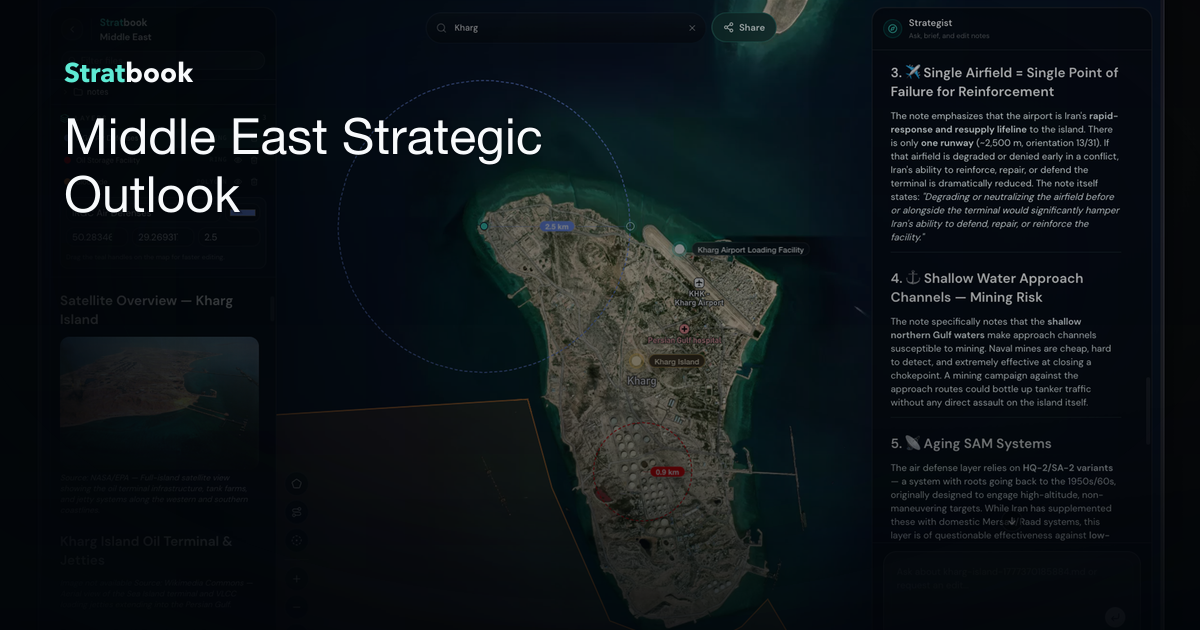
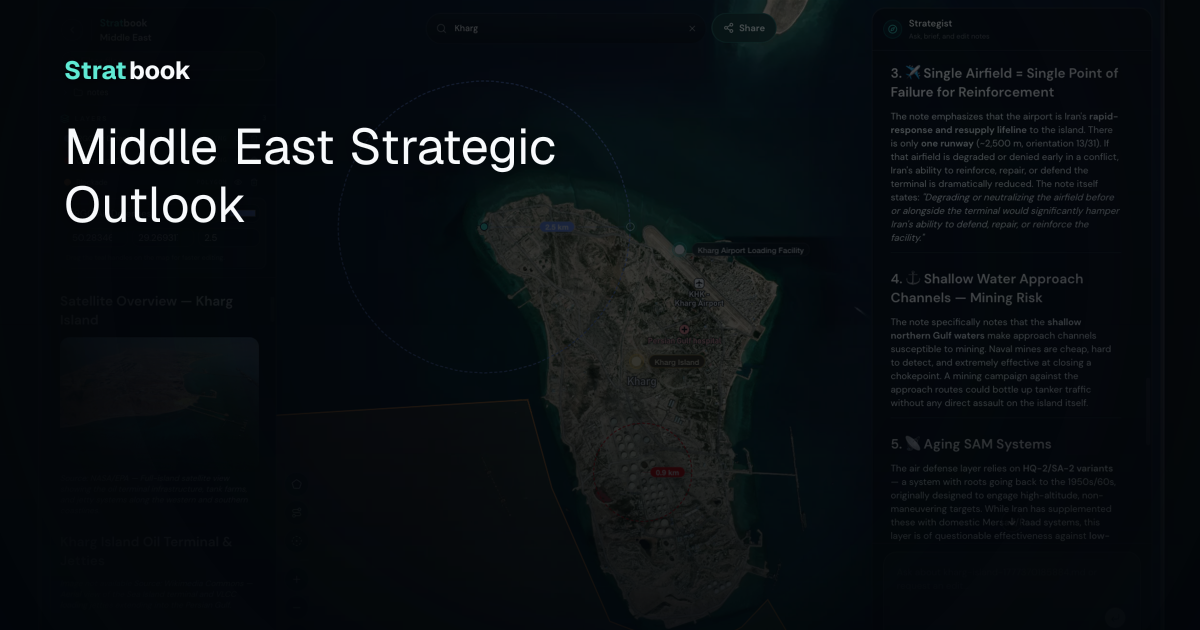
packaged fonts for rendering og image issue

diff --git a/src/lib/stratmap/cover-image.tsx b/src/lib/stratmap/cover-image.tsx
@@ -1,0 +1,194 @@
+import "server-only";
+
+import { readFile } from "node:fs/promises";
+import path from "node:path";
+import { ImageResponse } from "next/og";
+
+type CoverImageOptions = {
+  height: number;
+  image: Blob;
+  title: string;
+  width: number;
+};
+
+const geistBoldPath = path.join(process.cwd(), "src/assets/fonts/geist-bold.ttf");
+const geistRegularPath = path.join(process.cwd(), "src/assets/fonts/geist-regular.ttf");
+let geistBoldFontPromise: Promise<ArrayBuffer> | undefined;
+let geistRegularFontPromise: Promise<ArrayBuffer> | undefined;
+
+function getArrayBuffer(buffer: Buffer) {
+  const arrayBuffer = new ArrayBuffer(buffer.byteLength);
+  new Uint8Array(arrayBuffer).set(buffer);
+  return arrayBuffer;
+}
+
+function getGeistBoldFont(): Promise<ArrayBuffer> {
+  if (!geistBoldFontPromise) {
+    geistBoldFontPromise = readFile(geistBoldPath).then(getArrayBuffer);
+  }
+  return geistBoldFontPromise;
+}
+
+function getGeistRegularFont(): Promise<ArrayBuffer> {
+  if (!geistRegularFontPromise) {
+    geistRegularFontPromise = readFile(geistRegularPath).then(getArrayBuffer);
+  }
+  return geistRegularFontPromise;
+}
+
+function wrapCoverTitle(title: string) {
+  const words = title.trim().split(/\s+/).filter(Boolean);
+  const lines: string[] = [];
+  let currentLine = "";
+  for (const word of words) {
+    const nextLine = currentLine ? `${currentLine} ${word}` : word;
+    if (nextLine.length > 22 && currentLine) {
+      lines.push(currentLine);
+      currentLine = word;
+      continue;
+    }
+    currentLine = nextLine;
+  }
+  if (currentLine) lines.push(currentLine);
+  const visibleLines = lines.slice(0, 2);
+  if (lines.length > 2) {
+    visibleLines[1] = `${visibleLines[1].replace(/\s+\S*$/, "") || visibleLines[1]}...`;
+  }
+  return visibleLines.length > 0 ? visibleLines : ["Untitled stratbook"];
+}
+
+async function blobToDataUrl(blob: Blob) {
+  const base64 = Buffer.from(await blob.arrayBuffer()).toString("base64");
+  return `data:${blob.type || "image/png"};base64,${base64}`;
+}
+
+export async function renderCoverImage({ height, image, title, width }: CoverImageOptions) {
+  const [backgroundImage, geistBold, geistRegular] = await Promise.all([
+    blobToDataUrl(image),
+    getGeistBoldFont(),
+    getGeistRegularFont(),
+  ]);
+  const titleLines = wrapCoverTitle(title);
+  const response = new ImageResponse(
+    (
+      <div
+        style={{
+          backgroundColor: "#02060a",
+          display: "flex",
+          height: "100%",
+          overflow: "hidden",
+          position: "relative",
+          width: "100%",
+        }}
+      >
+        <img
+          alt=""
+          src={backgroundImage}
+          style={{
+            height: "100%",
+            left: 0,
+            objectFit: "cover",
+            position: "absolute",
+            top: 0,
+            width: "100%",
+          }}
+        />
+        <div
+          style={{
+            background:
+              "linear-gradient(90deg, rgba(2,6,10,0.9) 0%, rgba(2,6,10,0.4) 48%, rgba(2,6,10,0) 100%)",
+            height: "100%",
+            left: 0,
+            position: "absolute",
+            top: 0,
+            width: "100%",
+          }}
+        />
+        <div
+          style={{
+            background:
+              "linear-gradient(180deg, rgba(2,6,10,0) 0%, rgba(2,6,10,0.3) 62%, rgba(2,6,10,0.74) 100%)",
+            height: "100%",
+            left: 0,
+            position: "absolute",
+            top: 0,
+            width: "100%",
+          }}
+        />
+        <div
+          style={{
+            background:
+              "radial-gradient(circle at 50% 42%, rgba(2,6,10,0) 46%, rgba(2,6,10,0.56) 100%)",
+            height: "100%",
+            left: 0,
+            position: "absolute",
+            top: 0,
+            width: "100%",
+          }}
+        />
+        <div
+          style={{
+            color: "#f8fafc",
+            display: "flex",
+            flexDirection: "column",
+            left: 64,
+            position: "absolute",
+            top: 58,
+          }}
+        >
+          <div
+            style={{
+              display: "flex",
+              fontFamily: "Geist",
+              fontSize: 25,
+              fontWeight: 700,
+              lineHeight: 1,
+              textShadow: "0 1px 10px rgba(2, 6, 10, 0.64)",
+            }}
+          >
+            <span style={{ color: "#5eead4" }}>Strat</span>
+            <span>book</span>
+          </div>
+          <div
+            style={{
+              display: "flex",
+              flexDirection: "column",
+              fontFamily: "Geist",
+              fontSize: 50,
+              fontWeight: 400,
+              gap: 8,
+              lineHeight: 1,
+              marginTop: 38,
+              maxWidth: 650,
+              textShadow: "0 2px 18px rgba(2, 6, 10, 0.58)",
+            }}
+          >
+            {titleLines.map((line) => (
+              <div key={line}>{line}</div>
+            ))}
+          </div>
+        </div>
+      </div>
+    ),
+    {
+      fonts: [
+        {
+          data: geistRegular,
+          name: "Geist",
+          style: "normal",
+          weight: 400,
+        },
+        {
+          data: geistBold,
+          name: "Geist",
+          style: "normal",
+          weight: 700,
+        },
+      ],
+      height,
+      width,
+    }
+  );
+
+  return response.blob();
+}

diff --git a/src/lib/stratmap/workspace.ts b/src/lib/stratmap/workspace.ts
@@ -7,8 +7,8 @@ import matter from "gray-matter";
 import { nanoid } from "nanoid";
 import { createHash } from "node:crypto";
 import path from "node:path";
-import sharp from "sharp";
 
+import { renderCoverImage } from "./cover-image";
 import {
   EXAMPLE_PUBLIC_OWNER_ID,
   exampleStratbooks,
@@ -56,7 +56,7 @@ const DEFAULT_FILE_NAME = "notes/welcome.md";
 const LAYERS_FILE_NAME = "layers/stratbook-layers.json";
 const COVER_IMAGE_HEIGHT = 630;
 const COVER_IMAGE_WIDTH = 1200;
-const COVER_IMAGE_STYLE_VERSION = "heavy-gradient-title-v2";
+const COVER_IMAGE_STYLE_VERSION = "image-response-title-v1";
 const SHARE_MANIFEST_PREFIX = "_public/shares";
 export const STRATEGIST_MONTHLY_MESSAGE_LIMIT = 500;
 
@@ -384,89 +384,8 @@ function buildMapboxCoverUrl(points: WorkspaceMapPoint[], layers: StratMapLayer[
   return `${base}/${overlay}/auto/${size}?${params.toString()}`;
 }
 
-function escapeSvgText(value: string) {
-  return value
-    .replaceAll("&", "&amp;")
-    .replaceAll("<", "&lt;")
-    .replaceAll(">", "&gt;")
-    .replaceAll('"', "&quot;")
-    .replaceAll("'", "&apos;");
-}
-
-function wrapCoverTitle(title: string) {
-  const words = title.trim().split(/\s+/).filter(Boolean);
-  const lines: string[] = [];
-  let currentLine = "";
-  for (const word of words) {
-    const nextLine = currentLine ? `${currentLine} ${word}` : word;
-    if (nextLine.length > 22 && currentLine) {
-      lines.push(currentLine);
-      currentLine = word;
-      continue;
-    }
-    currentLine = nextLine;
-  }
-  if (currentLine) lines.push(currentLine);
-  const visibleLines = lines.slice(0, 2);
-  if (lines.length > 2) {
-    visibleLines[1] = `${visibleLines[1].replace(/\s+\S*$/, "") || visibleLines[1]}...`;
-  }
-  return visibleLines.length > 0 ? visibleLines : ["Untitled stratbook"];
-}
-
-function renderCoverTitle(title: string) {
-  return wrapCoverTitle(title)
-    .map((line, index) => (
-      `<tspan x="64" dy="${index === 0 ? 0 : 58}">${escapeSvgText(line)}</tspan>`
-    ))
-    .join("");
-}
-
 function getCoverTitleHash(title: string) {
   return createHash("sha256").update(title.trim()).digest("hex").slice(0, 8);
-}
-
-async function applyCoverImageGradient(image: Blob, title: string): Promise<Blob> {
-  const input = Buffer.from(await image.arrayBuffer());
-  const gradient = Buffer.from(`
-    <svg width="${COVER_IMAGE_WIDTH}" height="${COVER_IMAGE_HEIGHT}" viewBox="0 0 ${COVER_IMAGE_WIDTH} ${COVER_IMAGE_HEIGHT}" xmlns="http://www.w3.org/2000/svg">
-      <defs>
-        <linearGradient id="left" x1="0" x2="1" y1="0" y2="0">
-          <stop offset="0" stop-color="#02060a" stop-opacity="0.9"/>
-          <stop offset="0.48" stop-color="#02060a" stop-opacity="0.4"/>
-          <stop offset="1" stop-color="#02060a" stop-opacity="0"/>
-        </linearGradient>
-        <linearGradient id="bottom" x1="0" x2="0" y1="0" y2="1">
-          <stop offset="0" stop-color="#02060a" stop-opacity="0"/>
-          <stop offset="0.62" stop-color="#02060a" stop-opacity="0.3"/>
-          <stop offset="1" stop-color="#02060a" stop-opacity="0.74"/>
-        </linearGradient>
-        <radialGradient id="vignette" cx="50%" cy="42%" r="76%">
-          <stop offset="0.46" stop-color="#02060a" stop-opacity="0"/>
-          <stop offset="1" stop-color="#02060a" stop-opacity="0.56"/>
-        </radialGradient>
-      </defs>
-      <rect width="100%" height="100%" fill="url(#left)"/>
-      <rect width="100%" height="100%" fill="url(#bottom)"/>
-      <rect width="100%" height="100%" fill="url(#vignette)"/>
-      <g transform="translate(64 58)">
-        <text x="0" y="24" fill="#ffffff" font-family="Avenir Next, Helvetica Neue, Arial, sans-serif" font-size="27" font-weight="700" letter-spacing="0">
-          <tspan fill="#5eead4">Strat</tspan><tspan fill="#f8fafc">book</tspan>
-        </text>
-      </g>
-      <text x="64" y="154" fill="#f8fafc" font-family="Helvetica Neue, Arial, sans-serif" font-size="50" font-weight="400" letter-spacing="0" style="paint-order: stroke; stroke: rgba(2, 6, 10, 0.3); stroke-width: 3px;">
-        ${renderCoverTitle(title)}
-      </text>
-    </svg>
-  `);
-  const output = await sharp(input)
-    .resize(COVER_IMAGE_WIDTH, COVER_IMAGE_HEIGHT, { fit: "cover" })
-    .composite([{ input: gradient, blend: "over" }])
-    .png()
-    .toBuffer();
-  const imageBuffer = new ArrayBuffer(output.byteLength);
-  new Uint8Array(imageBuffer).set(output);
-  return new Blob([imageBuffer], { type: "image/png" });
 }
 
 // ─── Low-level storage primitives ────────────────────────────────────────────
@@ -1023,7 +942,12 @@ export async function generateProjectCoverImage(
   }
 
   const storagePath = `${projectStoragePrefix(ownerId, projectId)}/cover.png`;
-  const image = await applyCoverImageGradient(await response.blob(), current.name);
+  const image = await renderCoverImage({
+    height: COVER_IMAGE_HEIGHT,
+    image: await response.blob(),
+    title: current.name,
+    width: COVER_IMAGE_WIDTH,
+  });
   await storageUploadBinary(storagePath, image, "image/png");
 
   const updated: Project = {

diff --git a/src/app/s/[shareId]/page.tsx b/src/app/s/[shareId]/page.tsx
@@ -24,7 +24,7 @@ export async function generateMetadata({
     const proto = headersList.get("x-forwarded-proto") ?? "http";
     const host = headersList.get("x-forwarded-host") ?? headersList.get("host") ?? "localhost:3000";
     const origin = `${proto}://${host}`;
-    const imageUrl = `${origin}/api/shares/${encodeURIComponent(shareId)}/cover`;
+    const imageUrl = `${origin}/api/shares/${encodeURIComponent(shareId)}/cover?v=ir-title-v2`;
     const title = `${project.name} | Stratbook`;
     const description = project.description || "A public map-first stratbook.";
 